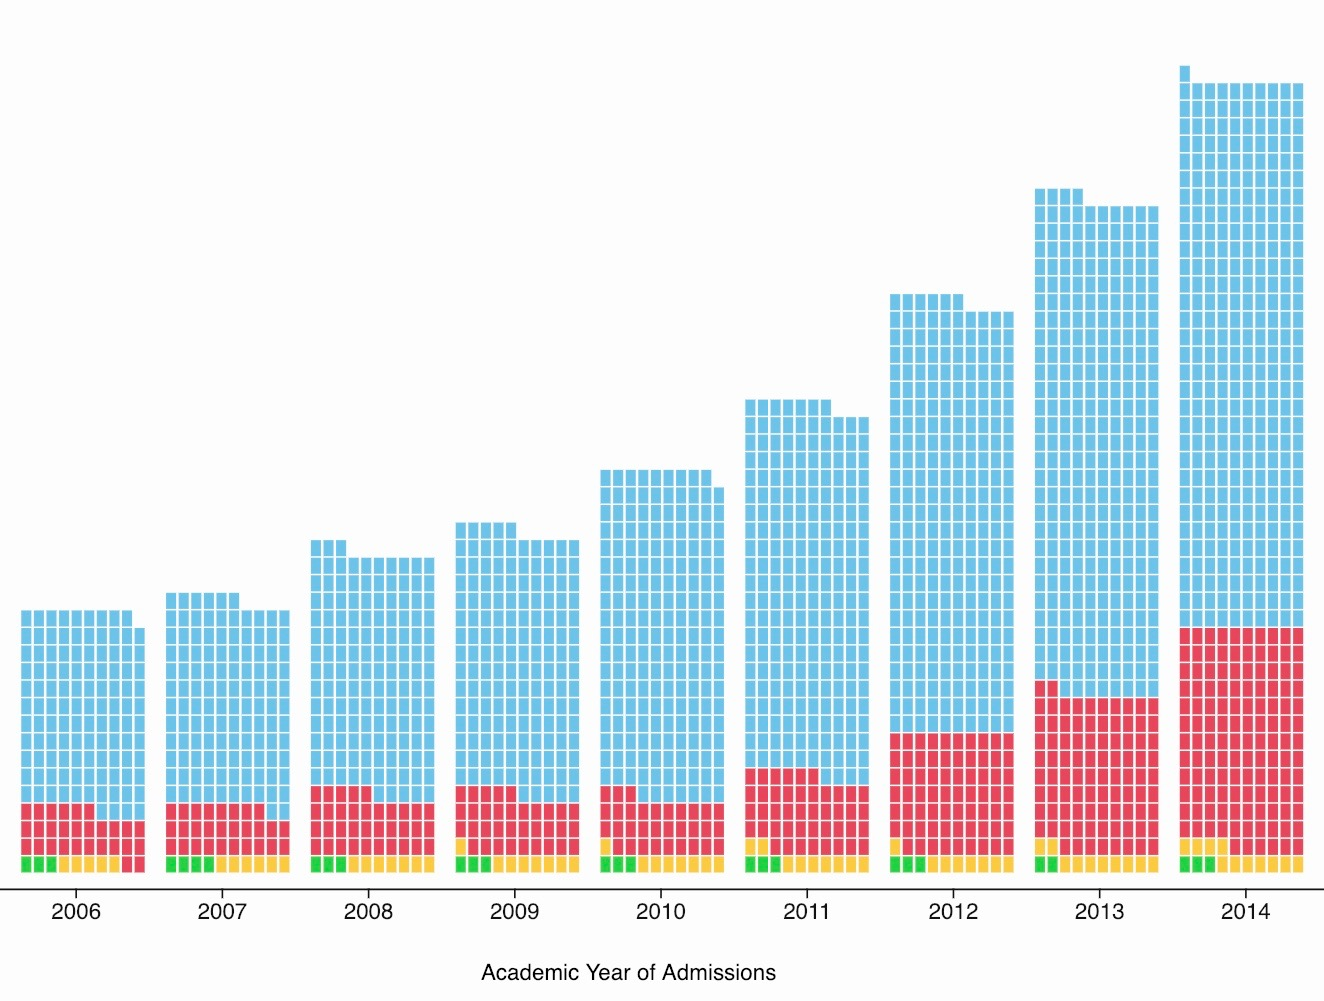
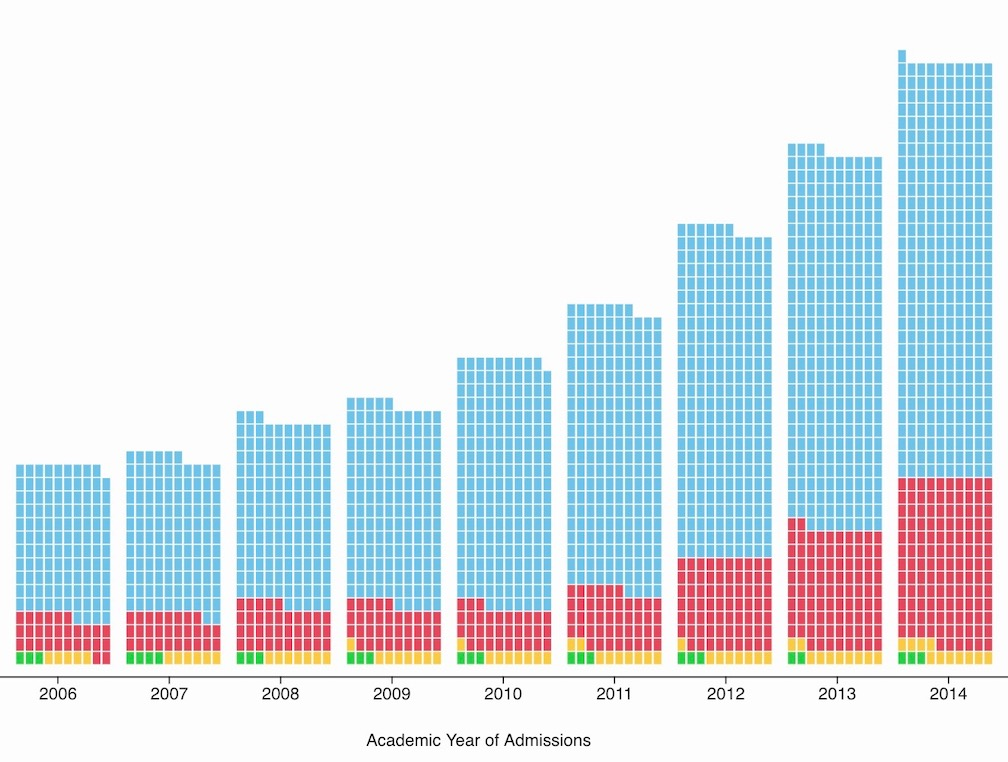
final size edits

diff --git a/js/posts/cs-enrollment/waffle.js b/js/posts/cs-enrollment/waffle.js
@@ -174,8 +174,8 @@
         });
 
 
-        var svgWidth = 1700;
-        var svgHeight = 750;
+        var svgWidth = 1350;
+        var svgHeight = 650;
 
         var svg = d3.select(".waffle")
             .append("svg")
@@ -394,7 +394,7 @@
             .attr('class', 'unclicked-legend-border')
             .attr('x', x(3.7))
             .attr('y', y(1.8))
-            .attr('width', x(45))
+            .attr('width', x(50))
             .attr('height', y(13))
             .style("stroke", 'black')
             .style("fill", "none")
@@ -713,7 +713,7 @@
                         .attr('class', 'clicked-legend-border')
                         .attr('x', x(3.7))
                         .attr('y', y(1.8))
-                        .attr('width', x(50))
+                        .attr('width', x(57))
                         .attr('height', y(22.5))
                         .style("stroke", 'black')
                         .style("fill", "none")
@@ -881,7 +881,7 @@
                         .attr('class', 'unclicked-legend-border')
                         .attr('x', x(3.7))
                         .attr('y', y(1.8))
-                        .attr('width', x(45))
+                        .attr('width', x(50))
                         .attr('height', y(13))
                         .style("stroke", 'black')
                         .style("fill", "none")

diff --git a/_posts/2018-11-13-cs-enrollment.md b/_posts/2018-11-13-cs-enrollment.md
@@ -50,7 +50,7 @@
     It is evident in the figure below that computer science admissions rate has shown decreasing trend since around 2011. The latest data in 2018 shows the 9.28% admissions rate in computer science majors compared to 14.08% in the overall UCLA applications, which suggests the relative selectivity of the major in terms of overall applications in recent years.
 </p>
 
-<iframe width="1400" height="600" frameborder="0" scrolling="no" src="//plot.ly/~keithatienza19/41.embed"></iframe>
+<iframe width="1300" height="500" frameborder="0" scrolling="no" src="//plot.ly/~keithatienza19/41.embed"></iframe>
 
 
 
@@ -59,11 +59,11 @@
 <p>Below you can see how the amount of faculty within the Computer Science department has changed relative to the faculty in the overall School of Engineering. </p>
 <br> 
 
-<iframe align="center" width="1300" height="400" frameborder="0" scrolling="no" src="//plot.ly/~MattieSanseverino/5.embed?link=false&modebar=false&width=100%&height=50%"></iframe>
+<iframe align="center" width="1200" height="400" frameborder="0" scrolling="no" src="//plot.ly/~MattieSanseverino/5.embed?link=false&modebar=false&width=100%&height=50%"></iframe>
 
 <p>Computer Science majors have grown in popularity relative to other engineering majors. Relative to the enrollment in the overall School of Engineering, the enrollment in the Computer Science Department has grown significantly. For example, the percentage of Computer Science majors within the School of Engineering has risen from 13.7% in 2013 to 21.0% in 2016. </p>
 
-<iframe align="center" width="1300" height="400" frameborder="0" scrolling="no" src="//plot.ly/~MattieSanseverino/13.embed?
+<iframe align="center" width="1200" height="400" frameborder="0" scrolling="no" src="//plot.ly/~MattieSanseverino/13.embed?
 link=false&modebar=false"></iframe>
 <p><i>FTE stands for Full-Time-Equivalent, and according to UCLA’s Workforce Methodology, FTE is calculated based on the number of hours per week that faculty members work. For example, an FTE of 0.5 is given for a person who works half-time (20 hours per week) while an FTE of 1.0 is given for a full-time employee. </i></p>
 
